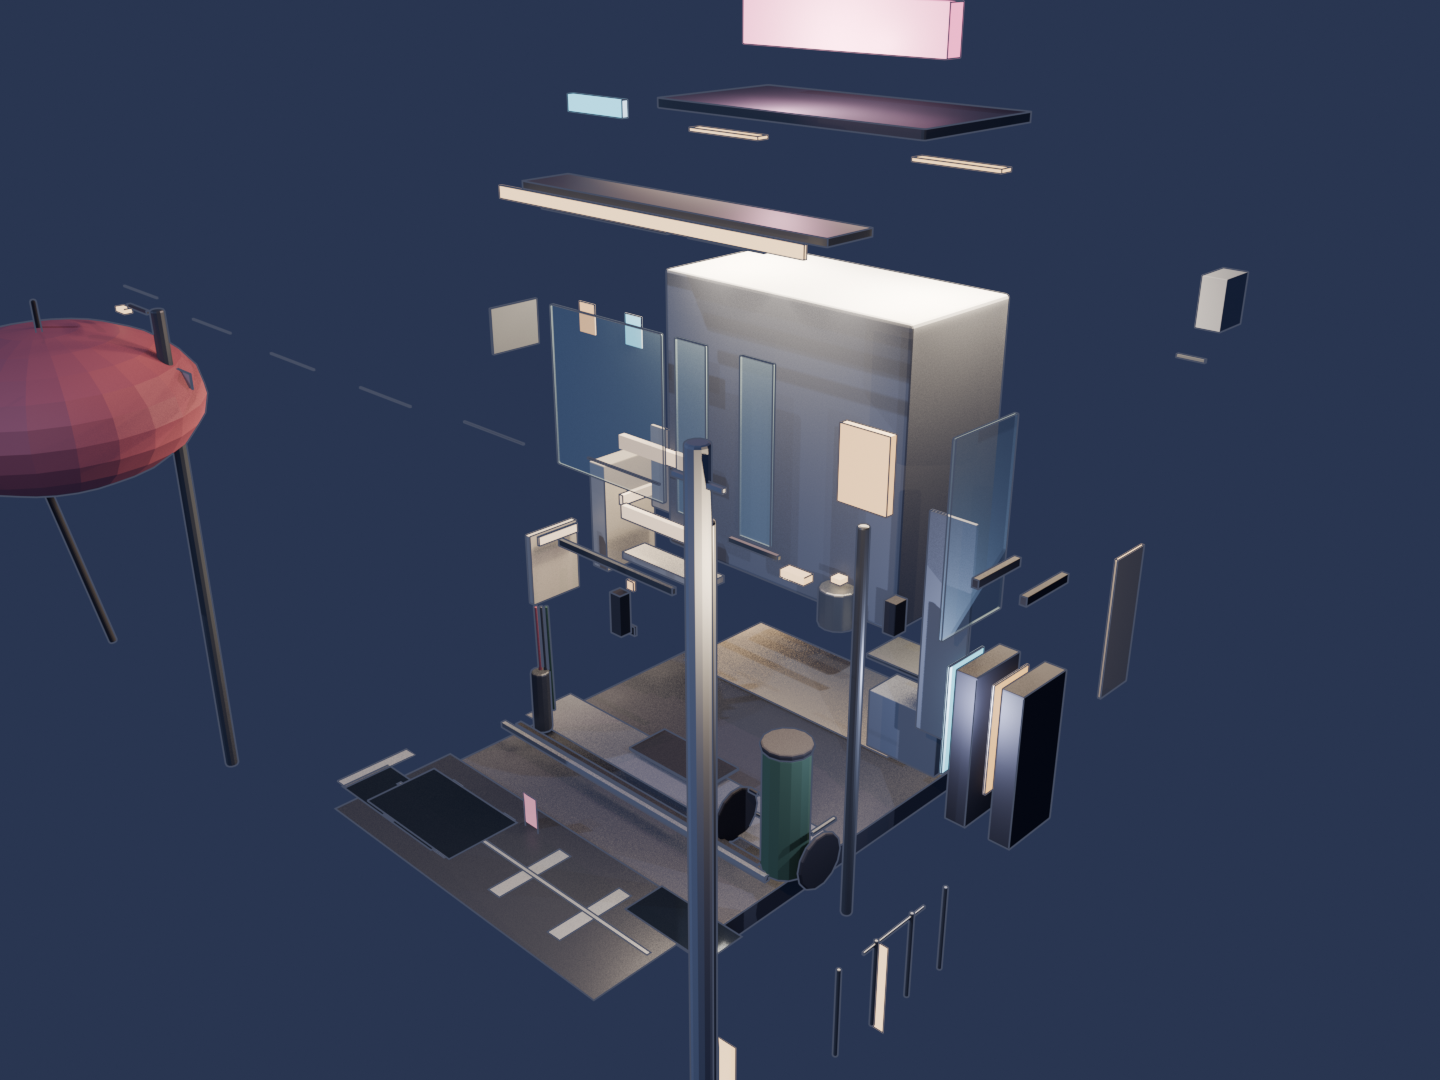
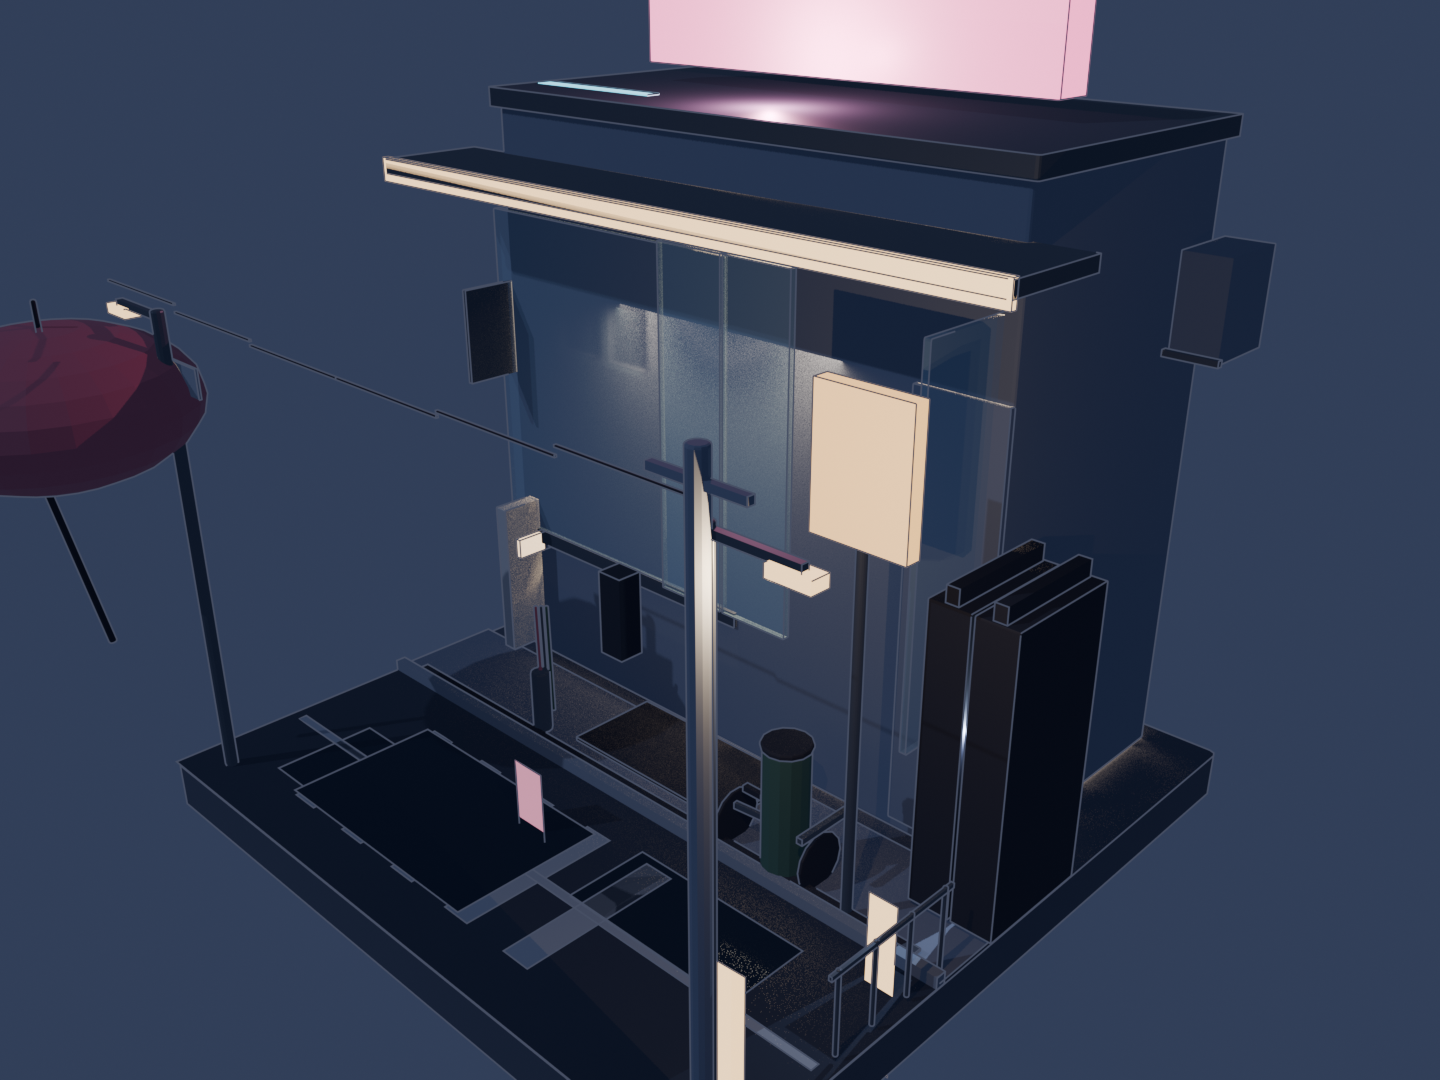
feat: BlenderMCP 桥 + 持久会话——konbini 经上游组件重建（S1 质变）
- mcp_bridge.py：BlenderMCP 协议客户端（execute_code/get_scene_info/save_blend）
- bl_session_server.py：持久 Blender 会话（主线程 dispatch——bpy.ops/渲染
  在非主线程会崩，实测）+ 常驻保活
- build_via_mcp.py：konbini_build 全量注入（含 __file__ prelude）→
  5 机位渲染 → save_blend（konbini_session.blend 可继续编辑）
- 玻璃磨砂修复尝试：rough 0/alpha 0.14/visible_raytracing False——
  S2 贴窗视角仍磨砂（EEVEE Next 透射特性），挂 W-15
- S1 主视觉质变：scale 修复+环境底光后，展台感/贴合/暖冷对比成立

diff --git a/blender_console/bl_session_server.py b/blender_console/bl_session_server.py
@@ -1,0 +1,74 @@
+"""bl_session_server.py — 在 Blender 内启动持久 JSON-socket 服务（BlenderMCP 协议兼容）
+================================================================================
+由 blender 启动：blender --background --python bl_session_server.py
+协议：{"type": "execute_code"|"get_scene_info"|"save_blend", "params": {...}}
+响应：{"status": "success"|"error", "result"|"message": ...}
+端口：9876（占用则 9877 递增）
+"""
+import bpy
+import json
+import socket
+import threading
+
+PORT = 9876
+
+
+def _handle(code: str):
+    ns = {"bpy": bpy, "math": __import__("math"),
+          "Path": __import__("pathlib").Path}
+    exec(code, ns)                                # noqa: S102 受控上游
+    return "ok"
+
+
+def _dispatch(req: dict) -> dict:
+    t = req.get("type")
+    p = req.get("params", {})
+    if t == "execute_code":
+        out = _handle(p.get("code", ""))
+        return {"status": "success", "result": str(out)[:200]}
+    if t == "get_scene_info":
+        objs = [{"name": o.name, "type": o.type}
+                for o in bpy.data.objects]
+        return {"status": "success",
+                "result": {"objects": objs, "count": len(objs)}}
+    if t == "save_blend":
+        bpy.ops.wm.save_as_mainfile(filepath=p.get("path"))
+        return {"status": "success", "result": "saved"}
+    return {"status": "error", "message": f"unknown type {t!r}"}
+
+
+def _serve():
+    """主线程 serve——dispatch 在主线程执行，bpy.ops/渲染全安全
+    （非主线程调 ops 会崩溃——2026-09-29 实测）。"""
+    srv = socket.socket(socket.AF_INET, socket.SOCK_STREAM)
+    srv.setsockopt(socket.SOL_SOCKET, socket.SO_REUSEADDR, 1)
+    srv.bind(("127.0.0.1", PORT))
+    srv.listen(4)
+    print(f"[bl_session] serving on 127.0.0.1:{PORT}", flush=True)
+    while True:
+        conn, _ = srv.accept()
+        try:
+            buf = b""
+            while True:
+                chunk = conn.recv(1 << 16)
+                if not chunk:
+                    break
+                buf += chunk
+                try:
+                    req = json.loads(buf.decode("utf-8"))
+                    break
+                except json.JSONDecodeError:
+                    continue
+            try:
+                resp = _dispatch(req)
+            except Exception as exc:              # noqa: BLE001
+                resp = {"status": "error",
+                        "message": f"{type(exc).__name__}: {exc}"[:400]}
+            conn.sendall(json.dumps(resp).encode("utf-8"))
+        except Exception as exc:                  # noqa: BLE001
+            print("[bl_session] conn err:", exc, flush=True)
+        finally:
+            conn.close()
+
+
+_serve()

diff --git a/blender_console/build_via_mcp.py b/blender_console/build_via_mcp.py
@@ -1,0 +1,54 @@
+"""build_via_mcp.py — 通过 BlenderMCP 桥在持久会话中构建雨夜便利店
+================================================================================
+流程：读 konbini_build.py 源码 → execute_code 注入（建模+光照+scene.json 导出）
+→ 逐机位渲染 → save_blend。此后该 .blend 可随时打开继续。
+"""
+import json
+from pathlib import Path
+from mcp_bridge import bl_call, bl_exec
+
+HERE = Path(__file__).resolve().parent
+SRC = HERE / "konbini_build.py"
+build_src = (SRC).read_text(encoding="utf-8")
+
+# 会话内执行：全量建模 + 光照 + scene.json 导出（konbini_web/）
+prelude = ("import sys\nsys.path.insert(0, r'%s')\n__file__ = r'%s'\n"
+           % (str(HERE), str(SRC)))
+r = bl_exec(prelude + build_src, timeout=240)
+print("[mcp] build:", json.dumps(r, ensure_ascii=False)[:200])
+
+SHOTS = [
+    ("S1_establishing", (2.75, -2.75, 2.50), (-0.15, 0.25, 0.65), 35),
+    ("S2_peek",         (0.05, -1.75, 1.18), (-0.30, 0.55, 0.75), 42),
+    ("S3_alley",        (-1.65, -1.35, 1.45), (0.35, 0.30, 0.80), 32),
+    ("S4_diorama",      (1.95, -2.05, 3.35), (0.0, 0.05, 0.10), 33),
+    ("S5_sign",         (0.75, -1.95, 0.45), (-0.10, 0.55, 1.95), 38),
+]
+shot_code = """
+import bpy, math
+cam = bpy.data.objects["C"]
+tgt = bpy.data.objects["T"]
+sc = bpy.context.scene
+sc.render.engine = 'BLENDER_EEVEE'
+sc.eevee.taa_render_samples = 64
+sc.render.resolution_x = 1440
+sc.render.resolution_y = 1080
+out = Path(r"%OUT%")
+out.mkdir(exist_ok=True)
+for name, loc, tloc, lens in %SHOTS%:
+    cam.location = loc
+    tgt.location = tloc
+    cam.data.lens = lens
+    sc.render.filepath = str(out / (name + ".png"))
+    bpy.ops.render.render(write_still=True)
+    print("[shot]", name)
+print("SHOTS_DONE")
+""".replace("%OUT%", str(HERE / "konbini_shots")).replace(
+    "%SHOTS%", json.dumps(SHOTS).replace("[", "(").replace("]", ")"))
+
+r = bl_exec(shot_code, timeout=600)
+print("[mcp] shots:", json.dumps(r, ensure_ascii=False)[:200])
+
+r = bl_call({"type": "save_blend",
+             "params": {"path": str(HERE / "konbini_session.blend")}})
+print("[mcp] save:", json.dumps(r, ensure_ascii=False)[:120])

diff --git a/blender_console/mcp_bridge.py b/blender_console/mcp_bridge.py
@@ -1,0 +1,34 @@
+"""mcp_bridge.py — BlenderMCP (127.0.0.1:9875) 桥接客户端
+用法：from mcp_bridge import bl_exec, bl_call
+"""
+import json
+import socket
+
+
+def bl_call(payload: dict, timeout: float = 300.0) -> dict:
+    s = socket.create_connection(("127.0.0.1", 9876), timeout=timeout)
+    s.sendall(json.dumps(payload).encode("utf-8"))
+    buf = b""
+    try:
+        while True:
+            chunk = s.recv(1 << 16)
+            if not chunk:
+                break
+            buf += chunk
+            try:
+                return json.loads(buf.decode("utf-8"))
+            except json.JSONDecodeError:
+                continue
+    finally:
+        s.close()
+    raise RuntimeError("no response")
+
+
+def bl_exec(code: str, timeout: float = 300.0) -> dict:
+    """在用户 Blender 主线程执行代码（GUI 实时可见）。"""
+    return bl_call({"type": "execute_code", "params": {"code": code}}, timeout)
+
+
+if __name__ == "__main__":
+    r = bl_call({"type": "get_scene_info"})
+    print(json.dumps(r, ensure_ascii=False)[:1500])

diff --git a/blender_console/probe_shelf.py b/blender_console/probe_shelf.py
@@ -1,0 +1,17 @@
+# probe_shelf.py — 通过 MCP 查证货架陈设存在性
+from mcp_bridge import bl_call
+
+code = """
+import bpy, json
+names = sorted(o.name for o in bpy.data.objects
+               if ('Shelf' in o.name or 'DCase' in o.name
+                   or 'Bento' in o.name or 'Band' in o.name))
+locs = {o.name: [round(c, 2) for c in o.location]
+        for o in bpy.data.objects if o.name.startswith('Shelf')}
+res = {'n': len(names), 'sample': names[:10], 'locs': locs}
+open(r'D:/WorkBuddy专用！危险！！！！！！！！/2026-09-26-21-02-58/blender_console/probe_out.json',
+     'w').write(json.dumps(res))
+"""
+r = bl_call({"type": "execute_code", "params": {"code": code}})
+print("status:", r.get("status"))
+print(open(r"D:/WorkBuddy专用！危险！！！！！！！！/2026-09-26-21-02-58/blender_console/probe_out.json").read())

diff --git a/blender_console/konbini_build.py b/blender_console/konbini_build.py
@@ -181,6 +181,10 @@ box("WarmBandL", (0.02, 0.7, 0.12), (BX-BW/2+0.03, BY-0.05, 1.55), M_WARM)
 # 玻璃/门不投影（否则罩住前脸挡掉店内光——EEVEE raytracing 实测）
 for _g in (GlassL, GlassR, OBJ_DoorL, OBJ_DoorR):
     _g.visible_shadow = False
+    try:
+        _g.visible_raytracing = False          # 关磨砂透射噪声（EEVEE Next）
+    except AttributeError:
+        pass
 
 # ── 街角 ────────────────────────────────────────────────────
 for i, (vx, vm) in enumerate([(1.02, M_SIGN2), (1.16, M_VEND)]):
